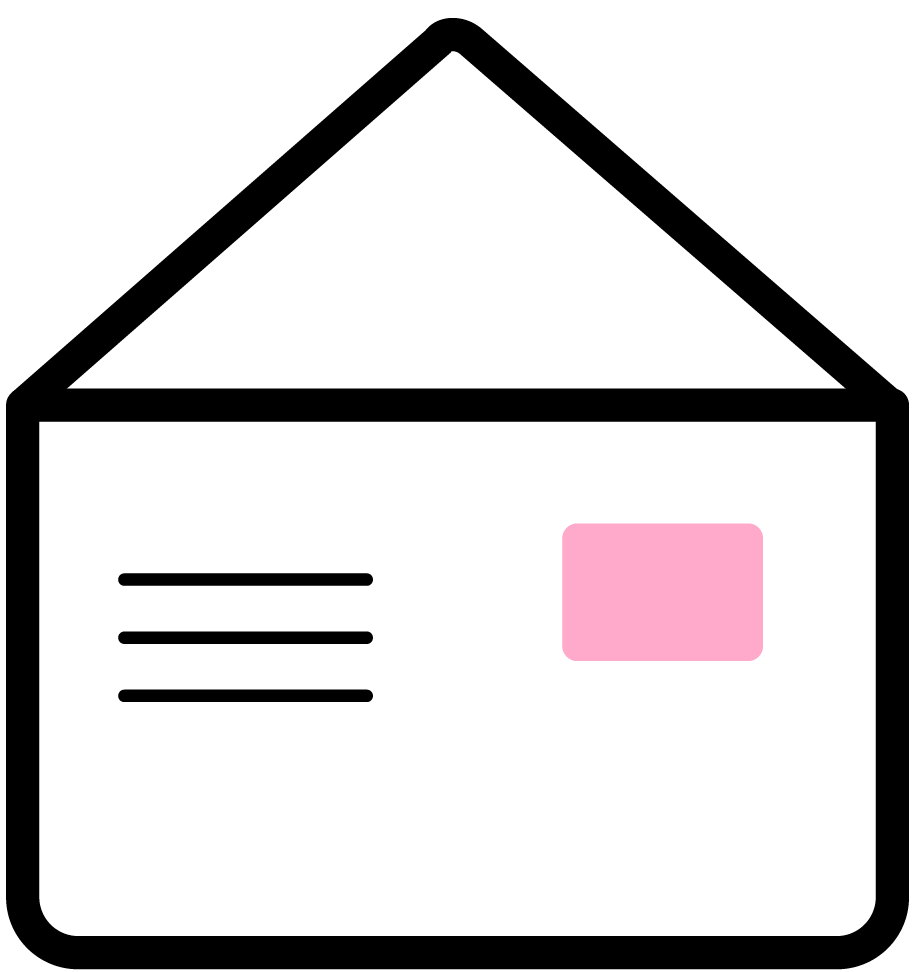
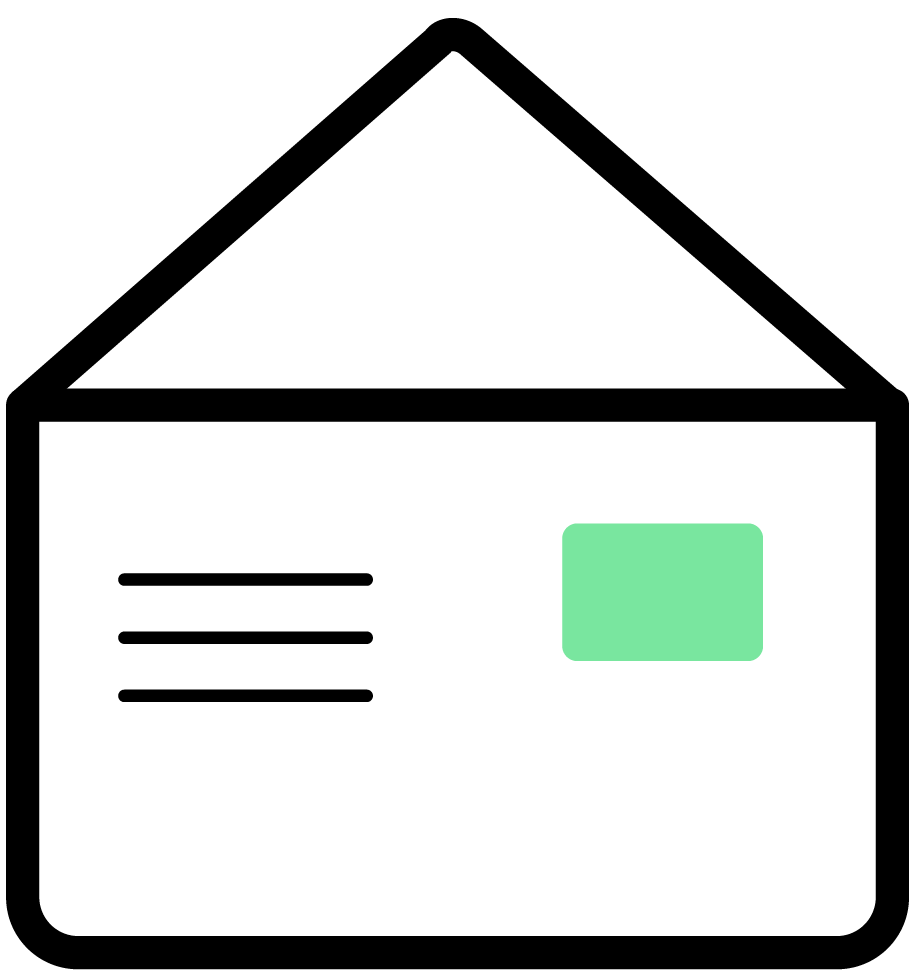
some textures

Changed region(s): [[0.61, 0.5247, 0.854, 0.679]]

diff --git a/src/backend/constants.py b/src/backend/constants.py
@@ -74,6 +74,7 @@ ID_TEXTURE_MAP = {
     'opened_envelope1': join(IMAGES_PATH, 'opened_envelope1.png'),
     'opened_envelope2': join(IMAGES_PATH, 'opened_envelope2.png'),
     'opened_envelope3': join(IMAGES_PATH, 'opened_envelope3.png'),
+    'opened_envelope4': join(IMAGES_PATH, 'opened_envelope4.png'),
     'closed_envelope': join(IMAGES_PATH, 'closed_envelope.png'),
     'back_btn': join(IMAGES_PATH, 'back_btn.png'),
     'restart_btn': join(IMAGES_PATH, 'restart_btn.png'),
@@ -86,7 +87,12 @@ ID_TEXTURE_MAP = {
     'target_field_btn': join(IMAGES_PATH, 'target_field_btn.png'),
     'q_mark': join(IMAGES_PATH, 'q_mark.png'),
     'en_flag': join(IMAGES_PATH, 'en_flag.jpg'),
-    'ru_flag': join(IMAGES_PATH, 'ru_flag.png')
+    'ru_flag': join(IMAGES_PATH, 'ru_flag.png'),
+    'stamp': join(IMAGES_PATH, 'stamp.png'),
+    'stamp_a': join(IMAGES_PATH, 'stamp_a.png'),
+    'stamp_b': join(IMAGES_PATH, 'stamp_b.png'),
+    'stamp_c': join(IMAGES_PATH, 'stamp_c.png'),
+    'stamp_d': join(IMAGES_PATH, 'stamp_d.png')
 }
 
 ENG_ID_TEXTURE_MAP = {
@@ -95,7 +101,7 @@ ENG_ID_TEXTURE_MAP = {
 }
 
 RU_ID_TEXTURE_MAP = {
-    'all_rules_btn': join(IMAGES_PATH, 'button_ru.png'),
+    'all_rules_btn': join(IMAGES_PATH, 'all_rules_btn_ru.png'),
     **ID_TEXTURE_MAP
 }
 
@@ -113,7 +119,8 @@ IMAGE_RATIOS = {
     'levels_label_btn': 2359 / 1322,
     'next_lvl_label_btn': 2359 / 1322,
     'restart_label_btn': 2359 / 1322,
-    'q_mark': 439 / 638
+    'q_mark': 439 / 638,
+    'stamp': 1353 / 955
 }
 
 MODULE_AMOUNT = 3
